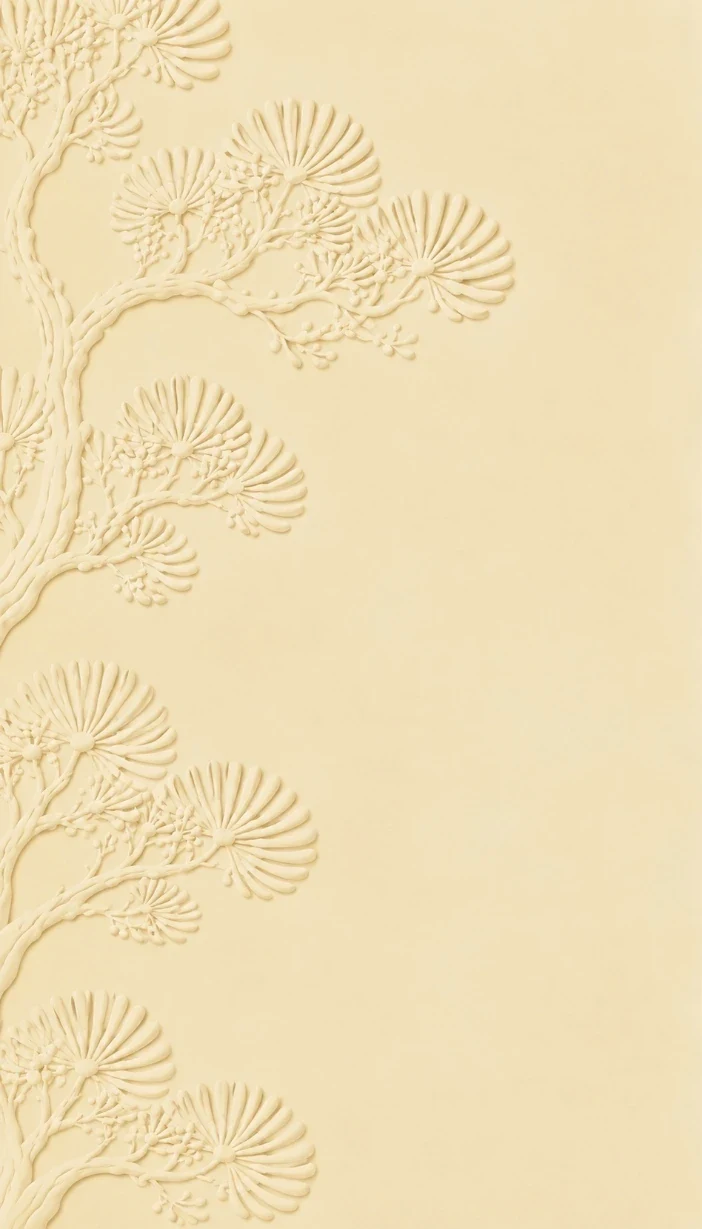
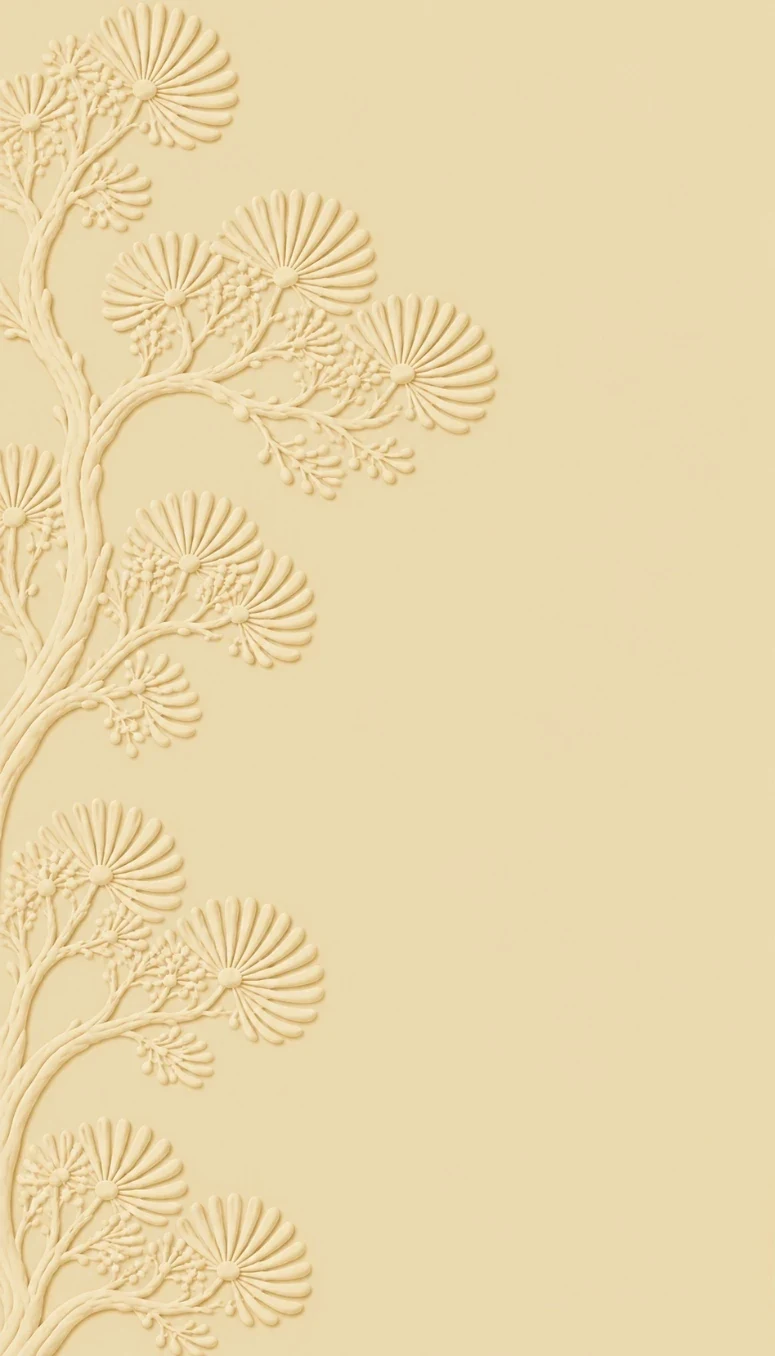
RSVP corner bouquets stacked in depth; new tree panel; one more page in the same colour
- Three new ornaments cut out (gold spray and leafy branch from black, every dark gap
  inside the curls removed; the lotus from its baked-in checkerboard) and stacked with the
  lotus plant at both bottom corners of the RSVP page: they cover the frame's corners and
  spill over the divider onto the Wishing Wall, each layer drifting at its own scroll speed
- Tree page uses the new panel (whole crowns at the top) and its top again below, on a
  matching #eadaaf background; page 9 follows in the same colour

Changed region(s): [[0.0, 0.0, 0.7479, 1.0]]

diff --git a/index.html b/index.html
@@ -21,9 +21,9 @@
   <link rel="stylesheet" href="css/events.css?v=824f89e6">
   <link rel="stylesheet" href="css/patrika.css?v=e87ec174">
   <link rel="stylesheet" href="css/family.css?v=4e893e42">
-  <link rel="stylesheet" href="css/rsvp.css?v=1d878ca6">
+  <link rel="stylesheet" href="css/rsvp.css?v=94380fb5">
   <link rel="stylesheet" href="css/end.css?v=17494f17">
-  <link rel="stylesheet" href="css/garden.css?v=1f0245d3">
+  <link rel="stylesheet" href="css/garden.css?v=be3c4313">
   <link rel="stylesheet" href="css/opening.css?v=19c59807">
   <script src="js/config.js?v=d2f5944c"></script>
 </head>
@@ -235,7 +235,6 @@
   <i class="p6-rod" aria-hidden="true"></i>
   <i class="p6-g l" aria-hidden="true"></i><i class="p6-g r" aria-hidden="true"></i><i class="p6-lotus" aria-hidden="true"></i>
   <i class="p6-pil l" aria-hidden="true"></i><i class="p6-pil r" aria-hidden="true"></i>
-  <i class="p6-lot l" aria-hidden="true"></i><i class="p6-lot r" aria-hidden="true"></i>
   <div class="p6-arch">
     <i class="p6-in-t" aria-hidden="true"></i><i class="p6-in-b" aria-hidden="true"></i>
     <i class="p6-fr-m" aria-hidden="true"></i><i class="p6-fr-t" aria-hidden="true"></i>
@@ -250,6 +249,9 @@
     <i class="p6-mahal" aria-hidden="true"></i>
     <i class="p6-fr-b" aria-hidden="true"></i>
   </div>
+  <!-- gold and red ornaments stacked in depth at both bottom corners, over the frame's corners and onto the next page -->
+  <div class="p6-cl l" aria-hidden="true"><img class="c1" src="assets/img/orn-spray.webp" alt="" width="876" height="794" loading="lazy" decoding="async" data-par="-0.07"><img class="c2" src="assets/img/orn-branch.webp" alt="" width="1031" height="844" loading="lazy" decoding="async" data-par="-0.035"><img class="c3" src="assets/img/orn-lotus.webp" alt="" width="836" height="674" loading="lazy" decoding="async" data-par="0.01"><img class="c4" src="assets/img/lotus-ornament.webp" alt="" width="900" height="620" loading="lazy" decoding="async" data-par="0.045"></div>
+  <div class="p6-cl r" aria-hidden="true"><img class="c1" src="assets/img/orn-spray.webp" alt="" width="876" height="794" loading="lazy" decoding="async" data-par="-0.07"><img class="c2" src="assets/img/orn-branch.webp" alt="" width="1031" height="844" loading="lazy" decoding="async" data-par="-0.035"><img class="c3" src="assets/img/orn-lotus.webp" alt="" width="836" height="674" loading="lazy" decoding="async" data-par="0.01"><img class="c4" src="assets/img/lotus-ornament.webp" alt="" width="900" height="620" loading="lazy" decoding="async" data-par="0.045"></div>
   <div class="p6-fx" id="p6fx" aria-hidden="true"></div>
 </section>
 <section class="pg7" id="pg7" aria-labelledby="p7title" data-par-bg="-0.12">
@@ -291,9 +293,10 @@
   </div>
 </section>
 <section class="pg8" id="pg8" aria-hidden="true">
-  <div class="p8-col l" data-par="-0.07"><img src="assets/img/tree-panel.webp" alt="" width="702" height="1229" loading="lazy" decoding="async"><img src="assets/img/tree-panel-2.webp" alt="" width="702" height="594" loading="lazy" decoding="async"></div>
-  <div class="p8-col r" data-par="-0.07"><img src="assets/img/tree-panel.webp" alt="" width="702" height="1229" loading="lazy" decoding="async"><img src="assets/img/tree-panel-2.webp" alt="" width="702" height="594" loading="lazy" decoding="async"></div>
+  <div class="p8-col l" data-par="-0.07"><img src="assets/img/tree-panel.webp" alt="" width="775" height="1356" loading="lazy" decoding="async"><img src="assets/img/tree-panel-2.webp" alt="" width="775" height="794" loading="lazy" decoding="async"></div>
+  <div class="p8-col r" data-par="-0.07"><img src="assets/img/tree-panel.webp" alt="" width="775" height="1356" loading="lazy" decoding="async"><img src="assets/img/tree-panel-2.webp" alt="" width="775" height="794" loading="lazy" decoding="async"></div>
 </section>
+<section class="pg9" id="pg9" aria-hidden="true"></section>
 
 <script src="js/hero.js?v=fc04044c"></script>
 <script src="js/opening.js?v=9a714515"></script>

diff --git a/css/rsvp.css b/css/rsvp.css
@@ -1,7 +1,7 @@
 /* Page 6: RSVP */
 /* ===== page 6: RSVP. Gold rod divider with hanging garlands, curtained pillars at both sides, a gold mihrab in the
    middle rising from the floor with the invitation, and Hawa Mahal at its foot ===== */
-.pg6{position:relative;z-index:3;overflow:hidden;display:flex;flex-direction:column;align-items:center;justify-content:flex-end;box-sizing:border-box;
+.pg6{position:relative;z-index:4;overflow:hidden;display:flex;flex-direction:column;align-items:center;justify-content:flex-end;box-sizing:border-box;
  --rodh:clamp(16px,2.4vw,34px);--pil:clamp(66px,16vw,230px);--aw:calc(100vw - var(--pil)*2);--swz:min(460px,72vw);
  min-height:max(100vh,calc(var(--pil)*3.49 + var(--rodh) + 30px));min-height:max(100svh,calc(var(--pil)*3.49 + var(--rodh) + 30px));
  padding-top:calc(var(--rodh) + clamp(70px,14vw,170px));padding-bottom:clamp(30px,5.5vw,76px);
@@ -18,11 +18,18 @@
 .p6-pil{position:absolute;z-index:4;top:calc(var(--rodh)*.55);bottom:0;width:var(--pil);background:url(../assets/img/rsvp-pillar.webp) center bottom/100% 100% no-repeat;filter:drop-shadow(0 10px 18px rgba(15,0,5,.55))}
 .p6-pil.l{left:0}
 .p6-pil.r{right:0;transform:scaleX(-1)}
-/* lotus ornament at the foot of each pillar, centred on the column base */
-.p6-lot{position:absolute;z-index:5;bottom:calc(var(--pil)*-.04);width:max(96px,calc(var(--pil)*1.3));aspect-ratio:900/620;pointer-events:none;
- background:url(../assets/img/lotus-ornament.webp) center bottom/contain no-repeat;filter:drop-shadow(0 6px 10px rgba(20,0,6,.5))}
-.p6-lot.l{left:calc(var(--pil)*.3);transform:translateX(-50%)}
-.p6-lot.r{right:calc(var(--pil)*.3);transform:translateX(50%)}
+/* corner bouquets: four pictures stacked in depth (back to front: gold spray, leafy branch, lotus, lotus plant);
+   each drifts at its own speed with the scroll, so they separate like layers. They spill over the divider onto the
+   Wishing Wall, so the page only clips sideways (where supported) */
+@supports (overflow:clip){.pg6{overflow:visible;overflow-x:clip}}
+.p6-cl{position:absolute;z-index:6;bottom:calc(clamp(22px,4vw,58px)*-1);width:max(176px,calc(var(--pil)*2.35));aspect-ratio:1/.9;pointer-events:none}
+.p6-cl.l{left:calc(var(--pil)*-.32)}
+.p6-cl.r{right:calc(var(--pil)*-.32);transform:scaleX(-1)}
+.p6-cl img{position:absolute;display:block;height:auto}
+.p6-cl .c1{width:80%;left:-2%;bottom:16%;filter:drop-shadow(0 6px 8px rgba(20,0,6,.4))}
+.p6-cl .c2{width:72%;left:30%;bottom:26%;filter:drop-shadow(0 8px 10px rgba(20,0,6,.45))}
+.p6-cl .c3{width:54%;left:22%;bottom:5%;filter:drop-shadow(0 10px 14px rgba(20,0,6,.5))}
+.p6-cl .c4{width:66%;left:-8%;bottom:-3%;filter:drop-shadow(0 12px 16px rgba(20,0,6,.55))}
 /* the mihrab: arch top + straight legs stretched to the floor; cream panel inside it */
 .p6-arch{position:relative;z-index:3;width:var(--aw);min-height:calc(var(--aw)*1.05);display:flex;flex-direction:column;align-items:center;container-type:inline-size}
 .p6-in-t{position:absolute;left:0;right:0;top:0;height:calc(var(--aw)*.5314);background:#fffdf8 url(../assets/img/gate-swirl-paper.webp) 0 0/var(--swz) auto repeat;

diff --git a/src/sections/06-rsvp.html b/src/sections/06-rsvp.html
@@ -2,7 +2,6 @@
   <i class="p6-rod" aria-hidden="true"></i>
   <i class="p6-g l" aria-hidden="true"></i><i class="p6-g r" aria-hidden="true"></i><i class="p6-lotus" aria-hidden="true"></i>
   <i class="p6-pil l" aria-hidden="true"></i><i class="p6-pil r" aria-hidden="true"></i>
-  <i class="p6-lot l" aria-hidden="true"></i><i class="p6-lot r" aria-hidden="true"></i>
   <div class="p6-arch">
     <i class="p6-in-t" aria-hidden="true"></i><i class="p6-in-b" aria-hidden="true"></i>
     <i class="p6-fr-m" aria-hidden="true"></i><i class="p6-fr-t" aria-hidden="true"></i>
@@ -17,5 +16,8 @@
     <i class="p6-mahal" aria-hidden="true"></i>
     <i class="p6-fr-b" aria-hidden="true"></i>
   </div>
+  <!-- gold and red ornaments stacked in depth at both bottom corners, over the frame's corners and onto the next page -->
+  <div class="p6-cl l" aria-hidden="true"><img class="c1" src="assets/img/orn-spray.webp" alt="" width="876" height="794" loading="lazy" decoding="async" data-par="-0.07"><img class="c2" src="assets/img/orn-branch.webp" alt="" width="1031" height="844" loading="lazy" decoding="async" data-par="-0.035"><img class="c3" src="assets/img/orn-lotus.webp" alt="" width="836" height="674" loading="lazy" decoding="async" data-par="0.01"><img class="c4" src="assets/img/lotus-ornament.webp" alt="" width="900" height="620" loading="lazy" decoding="async" data-par="0.045"></div>
+  <div class="p6-cl r" aria-hidden="true"><img class="c1" src="assets/img/orn-spray.webp" alt="" width="876" height="794" loading="lazy" decoding="async" data-par="-0.07"><img class="c2" src="assets/img/orn-branch.webp" alt="" width="1031" height="844" loading="lazy" decoding="async" data-par="-0.035"><img class="c3" src="assets/img/orn-lotus.webp" alt="" width="836" height="674" loading="lazy" decoding="async" data-par="0.01"><img class="c4" src="assets/img/lotus-ornament.webp" alt="" width="900" height="620" loading="lazy" decoding="async" data-par="0.045"></div>
   <div class="p6-fx" id="p6fx" aria-hidden="true"></div>
 </section>

diff --git a/src/sections/08-garden.html b/src/sections/08-garden.html
@@ -1,4 +1,5 @@
 <section class="pg8" id="pg8" aria-hidden="true">
-  <div class="p8-col l" data-par="-0.07"><img src="assets/img/tree-panel.webp" alt="" width="702" height="1229" loading="lazy" decoding="async"><img src="assets/img/tree-panel-2.webp" alt="" width="702" height="594" loading="lazy" decoding="async"></div>
-  <div class="p8-col r" data-par="-0.07"><img src="assets/img/tree-panel.webp" alt="" width="702" height="1229" loading="lazy" decoding="async"><img src="assets/img/tree-panel-2.webp" alt="" width="702" height="594" loading="lazy" decoding="async"></div>
+  <div class="p8-col l" data-par="-0.07"><img src="assets/img/tree-panel.webp" alt="" width="775" height="1356" loading="lazy" decoding="async"><img src="assets/img/tree-panel-2.webp" alt="" width="775" height="794" loading="lazy" decoding="async"></div>
+  <div class="p8-col r" data-par="-0.07"><img src="assets/img/tree-panel.webp" alt="" width="775" height="1356" loading="lazy" decoding="async"><img src="assets/img/tree-panel-2.webp" alt="" width="775" height="794" loading="lazy" decoding="async"></div>
 </section>
+<section class="pg9" id="pg9" aria-hidden="true"></section>

diff --git a/css/garden.css b/css/garden.css
@@ -1,8 +1,9 @@
-/* Page 8: cream page with the embossed tree panels down both sides (the panel, then its top part again below it,
-   so about one and a half panels), mirrored on the right, with open space in the middle */
-.pg8{position:relative;z-index:3;overflow:hidden;display:flex;justify-content:space-between;align-items:flex-start;background:#f1e1bc}
+/* Page 8: cream page with the embossed tree panel down both sides (the panel, then its top again below it, so about
+   one and a half panels), mirrored on the right, open space in the middle. Page 9 carries on in the same colour */
+.pg8{position:relative;z-index:3;overflow:hidden;display:flex;justify-content:space-between;align-items:flex-start;background:#eadaaf}
 .p8-col{width:44%;flex:none;will-change:translate;
  -webkit-mask-image:linear-gradient(90deg,#000 80%,transparent);mask-image:linear-gradient(90deg,#000 80%,transparent)}
 .p8-col img{display:block;width:100%;height:auto}
 .p8-col.r{transform:scaleX(-1)}
 @media (max-width:600px){.p8-col{width:47%}}
+.pg9{position:relative;z-index:3;min-height:100vh;min-height:100svh;background:#eadaaf}
